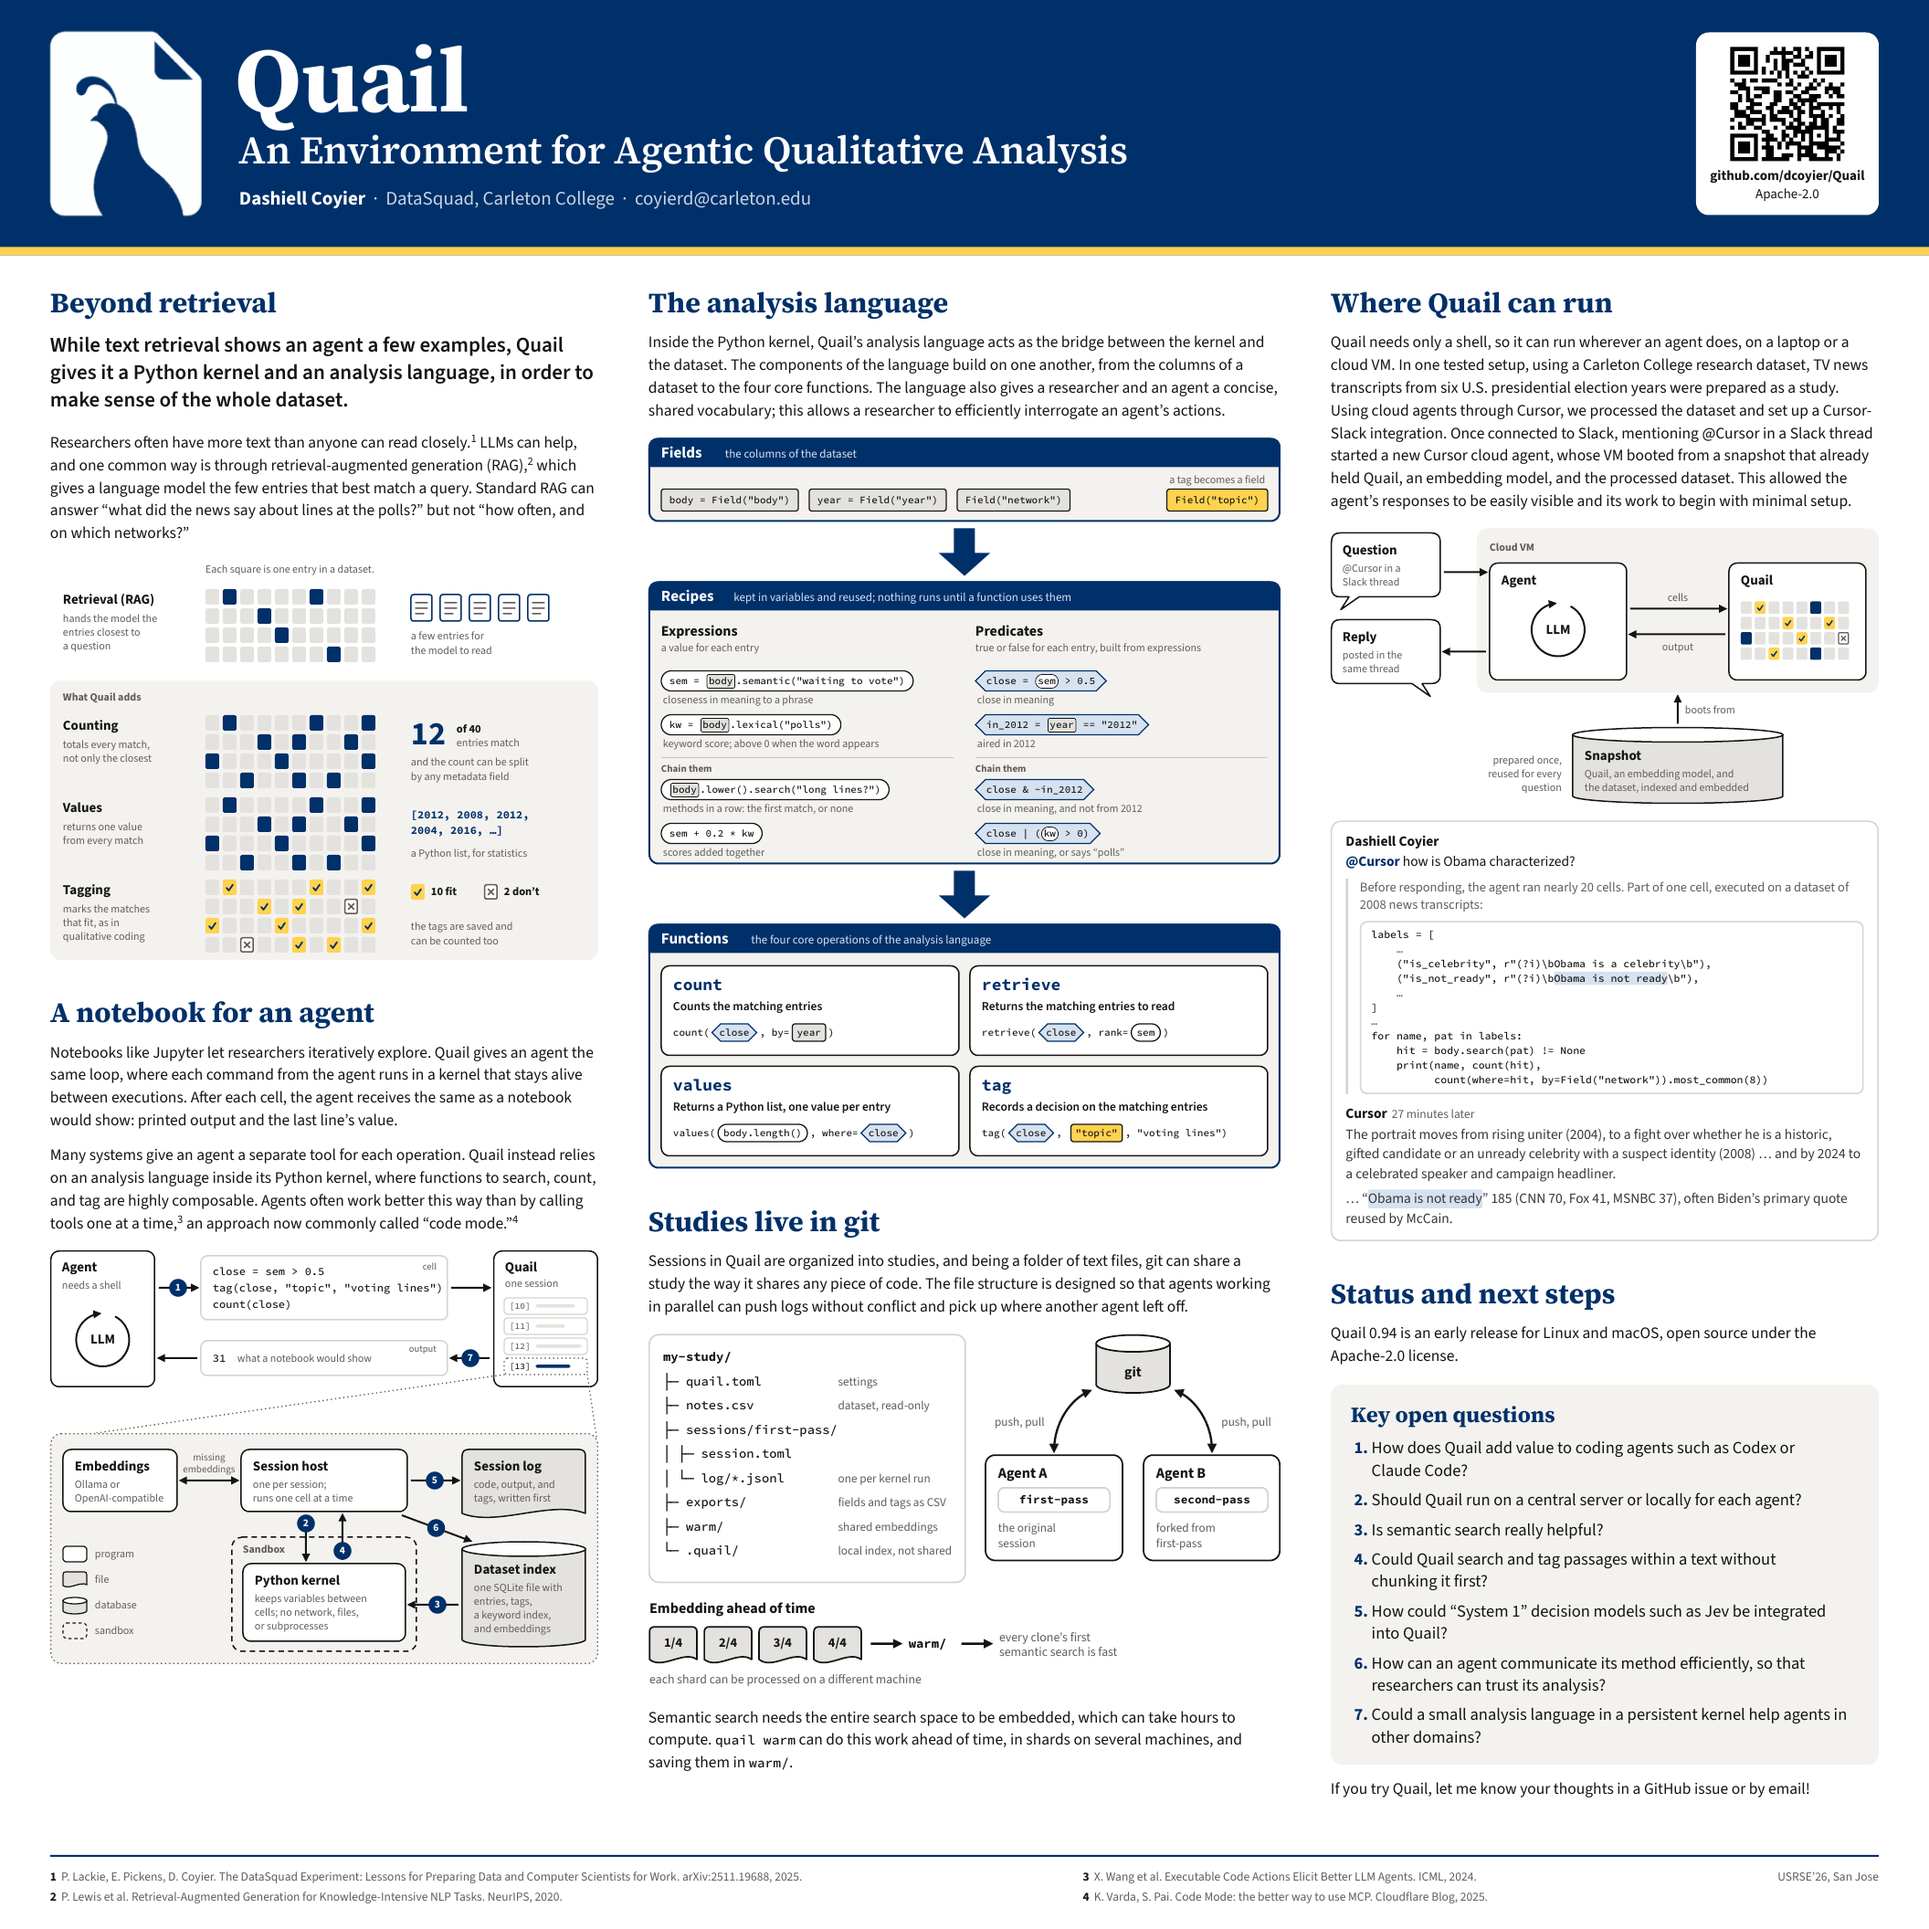
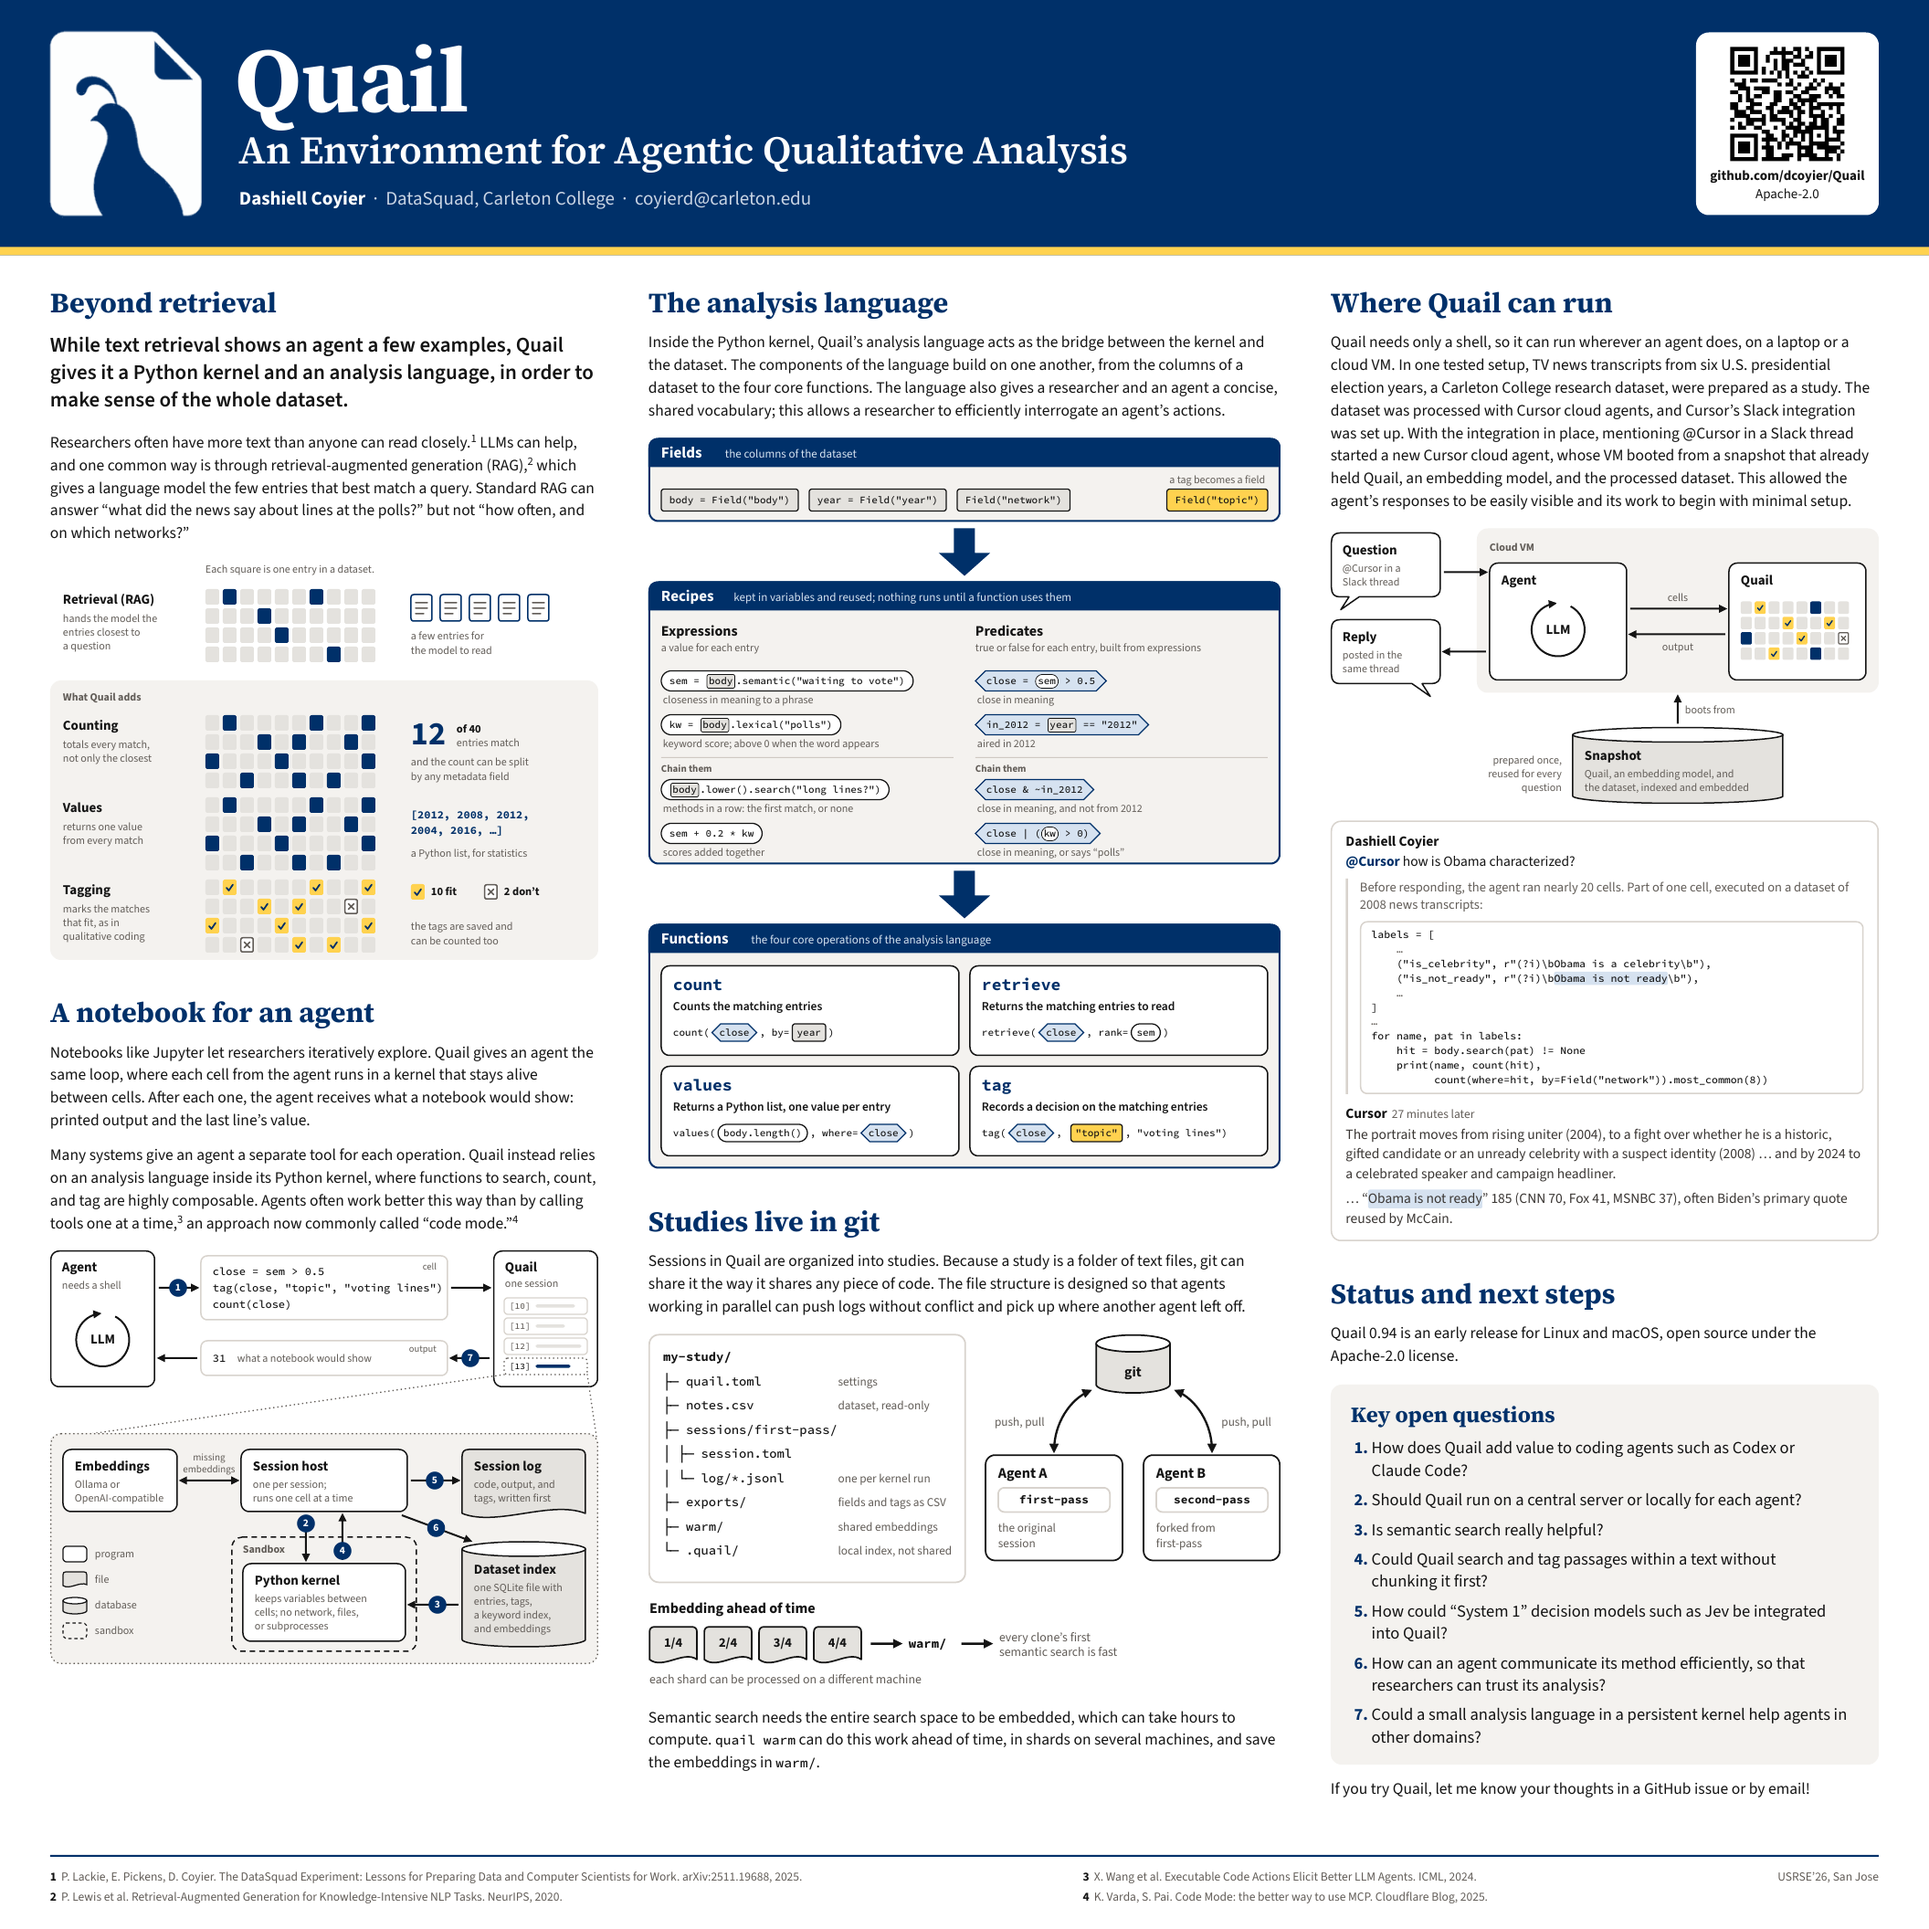
Fix four wording errors and drop "we" from the deploy paragraph
"Cell" throughout the notebook paragraph instead of "command" and
"executions"; no dangling modifiers in the studies and deploy paragraphs;
"save the embeddings" in the warm/ sentence. The deploy paragraph is
impersonal like the rest of the poster, leaving "me" for the closing
invitation.

Claude-Session: https://claude.ai/code/session_01ChZ8DmmKvsKSV4JFVieZLU

diff --git a/poster/poster.html b/poster/poster.html
@@ -33,7 +33,7 @@
 
 <section id="notebook">
   <h2>A notebook for an agent</h2>
-  <p>Notebooks like Jupyter let researchers iteratively explore. Quail gives an agent the same loop, where each command from the agent runs in a kernel that stays alive between executions. After each cell, the agent receives the same as a notebook would show: printed output and the last line&rsquo;s value.</p>
+  <p>Notebooks like Jupyter let researchers iteratively explore. Quail gives an agent the same loop, where each cell from the agent runs in a kernel that stays alive between cells. After each one, the agent receives what a notebook would show: printed output and the last line&rsquo;s value.</p>
   <p>Many systems give an agent a separate tool for each operation. Quail instead relies on an analysis language inside its Python kernel, where functions to search, count, and tag are highly composable. Agents often work better this way than by calling tools one at a time,<sup>3</sup> an approach now commonly called &ldquo;code mode.&rdquo;<sup>4</sup></p>
   <figure><img src="figures/loop.svg" alt="The agent sends cell 13 to Quail and reads back its output. Inside Quail, a session host passes the cell to a sandboxed Python kernel, which reads the SQLite dataset index and returns its result; the host writes the cell and its result to the session log, then updates the index and replies. Numbered arrows mark the seven steps; missing embeddings come from an embedding model"></figure>
 </section>
@@ -50,9 +50,9 @@
 
 <section id="study">
   <h2>Studies live in git</h2>
-  <p>Sessions in Quail are organized into studies, and being a folder of text files, git can share a study the way it shares any piece of code. The file structure is designed so that agents working in parallel can push logs without conflict and pick up where another agent left off.</p>
+  <p>Sessions in Quail are organized into studies. Because a study is a folder of text files, git can share it the way it shares any piece of code. The file structure is designed so that agents working in parallel can push logs without conflict and pick up where another agent left off.</p>
   <figure><img src="figures/study.svg" alt="A study folder holding quail.toml, the notes.csv dataset, a session with one log per kernel run, exports/, warm/ and a local .quail/ index, next to two agents sharing it through git: one works in session first-pass, the other in second-pass, forked from it. Below, embeddings computed in four shards are saved to warm/, so every clone&rsquo;s first semantic search is fast"></figure>
-  <p>Semantic search needs the entire search space to be embedded, which can take hours to compute. <code>quail warm</code> can do this work ahead of time, in shards on several machines, and saving them in <code>warm/</code>.</p>
+  <p>Semantic search needs the entire search space to be embedded, which can take hours to compute. <code>quail warm</code> can do this work ahead of time, in shards on several machines, and save the embeddings in <code>warm/</code>.</p>
 </section>
 
 </div>
@@ -61,7 +61,7 @@
 
 <section id="where">
   <h2>Where Quail can run</h2>
-  <p>Quail needs only a shell, so it can run wherever an agent does, on a laptop or a cloud VM. In one tested setup, using a Carleton College research dataset, TV news transcripts from six U.S. presidential election years were prepared as a study. Using cloud agents through Cursor, we processed the dataset and set up a Cursor-Slack integration. Once connected to Slack, mentioning @Cursor in a Slack thread started a new Cursor cloud agent, whose VM booted from a snapshot that already held Quail, an embedding model, and the processed dataset. This allowed the agent&rsquo;s responses to be easily visible and its work to begin with minimal setup.</p>
+  <p>Quail needs only a shell, so it can run wherever an agent does, on a laptop or a cloud VM. In one tested setup, TV news transcripts from six U.S. presidential election years, a Carleton College research dataset, were prepared as a study. The dataset was processed with Cursor cloud agents, and Cursor&rsquo;s Slack integration was set up. With the integration in place, mentioning @Cursor in a Slack thread started a new Cursor cloud agent, whose VM booted from a snapshot that already held Quail, an embedding model, and the processed dataset. This allowed the agent&rsquo;s responses to be easily visible and its work to begin with minimal setup.</p>
   <figure><img src="figures/deploy.svg" alt="A question in Slack starts a cloud VM that boots from a snapshot holding Quail, an embedding model and the dataset, indexed and embedded; on the VM the agent sends cells to Quail, reads their output and posts its reply in the same thread"></figure>
   <div class="thread">
     <div><span class="who">Dashiell Coyier</span></div>
